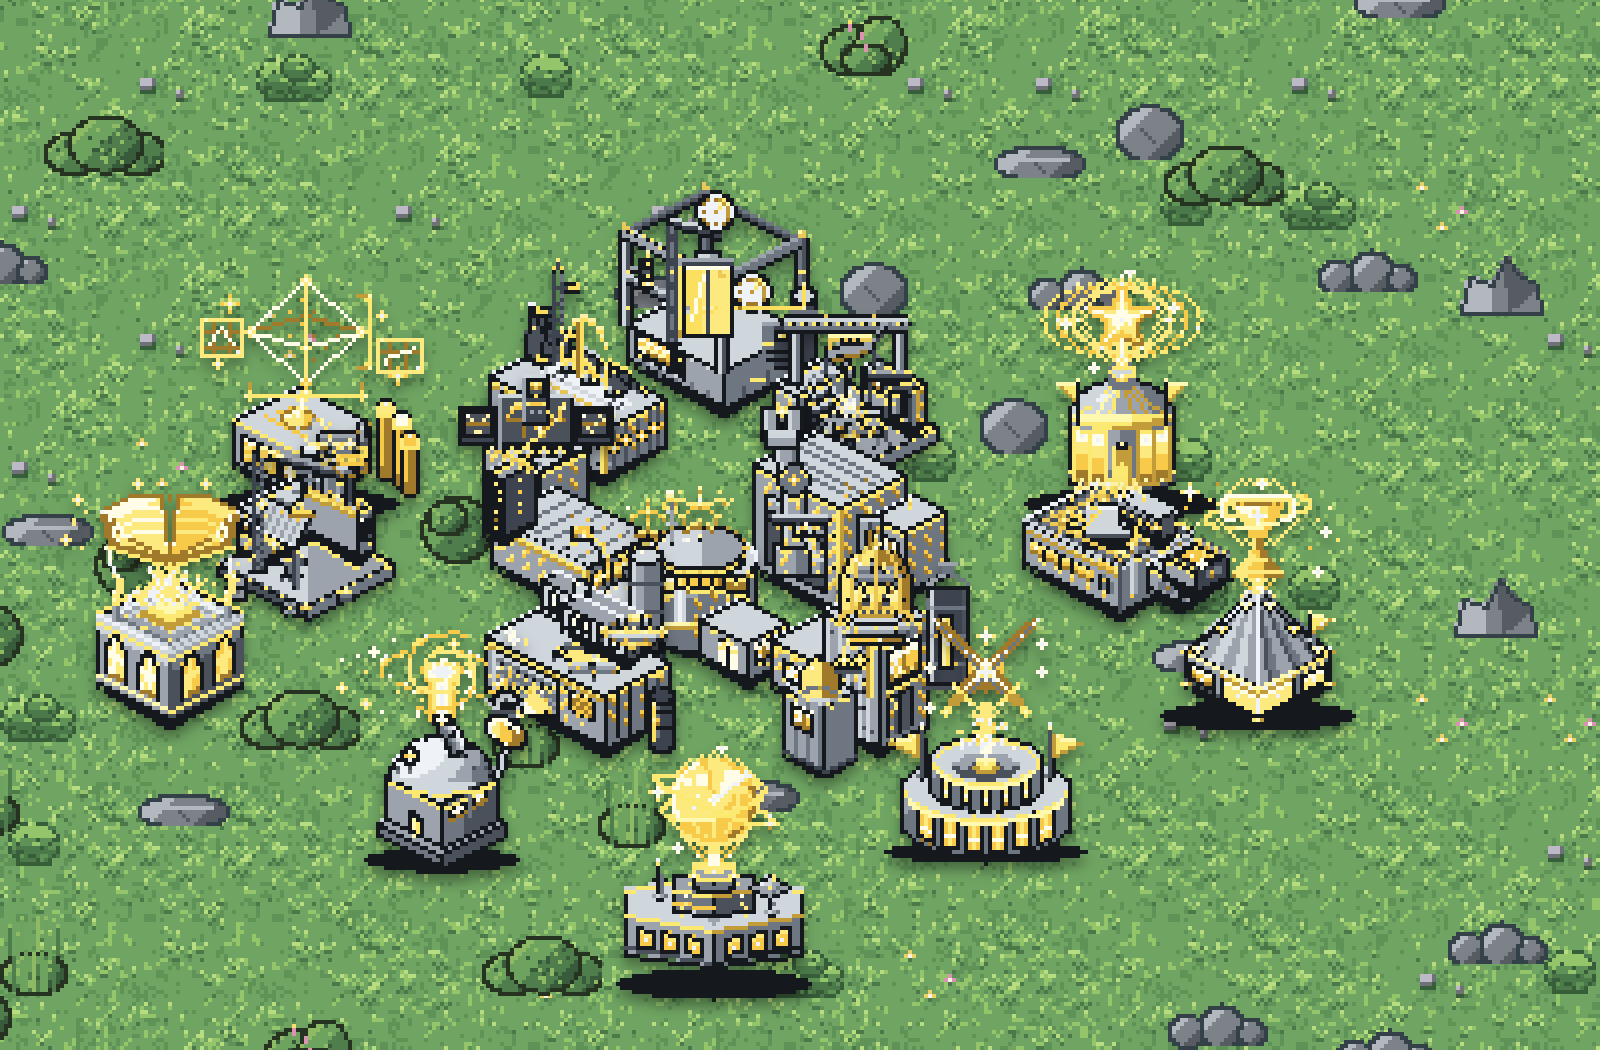
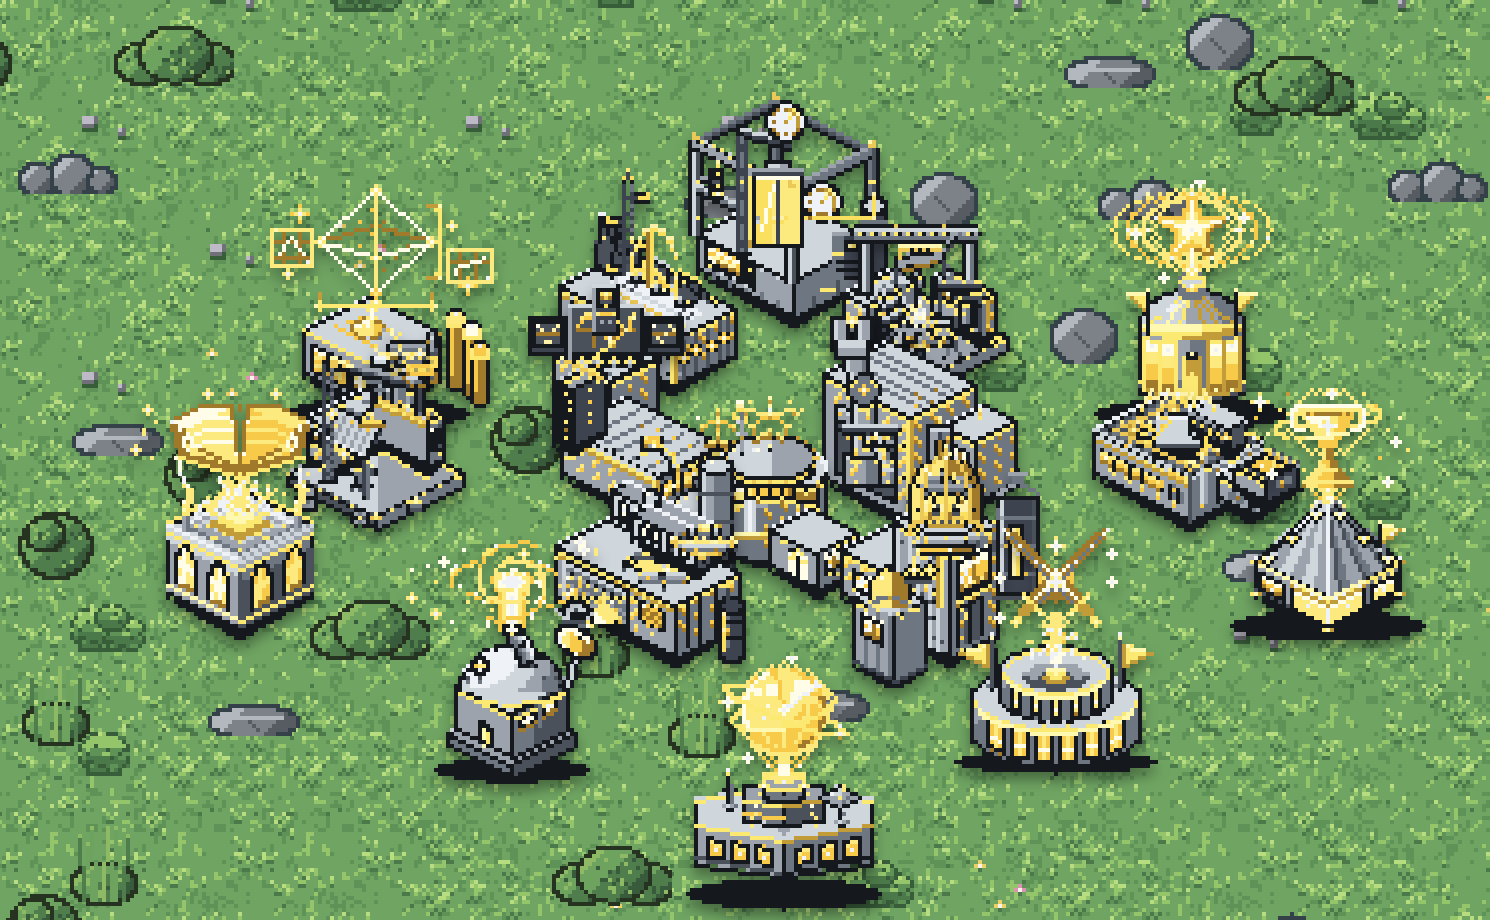
Remove lab carousel, re-crop hero tighter on the maxed-out lab
Dropped the lab-building carousel from the homepage per request --
deleted SpriteCarousel.tsx outright along with its now-dead
.mkt-carousel-* CSS rather than leaving unused code behind.

Re-cropped the hero background tighter around the building cluster
(less surrounding grass, buildings fill more of the frame) and
centered it with object-position: center.

diff --git a/apps/web/app/globals.css b/apps/web/app/globals.css
@@ -3047,38 +3047,6 @@
   animation: mkt-flip-in 0.35s cubic-bezier(0.22, 1, 0.36, 1);
 }
 
-/* 3D Sprite Carousel (game-layer) — "coverflow" style: center item full-size
-   and forward-facing, two on each side progressively smaller and turned
-   inward (CSS perspective + per-item translateX/Z, rotateY, scale; no
-   library). Fills the width of its container — translateX on each item
-   uses %, which resolves against the item's own box (same width as the
-   scene, since items are position:absolute + inset:0). */
-.mkt-carousel-scene {
-  perspective: 1100px;
-  height: clamp(180px, 30vw, 260px);
-}
-.mkt-carousel-track {
-  position: relative;
-  width: 100%;
-  height: 100%;
-  transform-style: preserve-3d;
-  cursor: grab;
-  touch-action: pan-y;
-}
-.mkt-carousel-track:active {
-  cursor: grabbing;
-}
-.mkt-carousel-item {
-  position: absolute;
-  inset: 0;
-  display: flex;
-  flex-direction: column;
-  align-items: center;
-  justify-content: center;
-  backface-visibility: hidden;
-  transition: transform 0.4s cubic-bezier(0.22, 1, 0.36, 1), opacity 0.4s cubic-bezier(0.22, 1, 0.36, 1);
-}
-
 /* Lightbox (Shot zoom) — quick fade, respects reduced-motion below. */
 @keyframes mkt-lightbox-in {
   from { opacity: 0; }
@@ -3146,6 +3114,5 @@
   .mkt-flip-in { animation: none !important; }
   [data-flip] { transform: none !important; transition: none !important; }
   .mkt-accordion-flip { transition: none !important; }
-  .mkt-carousel-item { transition: none !important; }
   .mkt-lightbox { animation: none !important; }
 }

diff --git a/apps/web/app/page.tsx b/apps/web/app/page.tsx
@@ -11,7 +11,6 @@ import { TiltCard } from '@/components/marketing/TiltCard'
 import { MarketingNav, MarketingFooter } from '@/components/marketing/MarketingChrome'
 import { JourneyRail } from '@/components/marketing/JourneyRail'
 import { FlipWords } from '@/components/marketing/FlipWords'
-import { SpriteCarousel } from '@/components/marketing/SpriteCarousel'
 
 /**
  * Public marketing home (`/`) — the product front door. Light theme (paper field,
@@ -402,9 +401,6 @@ export default async function HomePage() {
             </li>
           ))}
         </ul>
-        <Reveal className="mkt-iso-plate mt-12 border border-[#e6e5dd] p-6 md:p-10" style={{ borderRadius: 8 }}>
-          <SpriteCarousel />
-        </Reveal>
       </section>
 
       {/* ── For teachers. Split, image-LEFT (varies orientation). ─────────── */}

diff --git a/apps/web/components/marketing/HeroParallaxBg.tsx b/apps/web/components/marketing/HeroParallaxBg.tsx
@@ -40,7 +40,7 @@ export function HeroParallaxBg({ src }: { src: string }) {
         src={src}
         alt=""
         className="h-full w-full object-cover"
-        style={{ objectPosition: 'center 42%' }}
+        style={{ objectPosition: 'center' }}
       />
       <div
         className="absolute inset-0"

diff --git a/docs/CHANGELOG.md b/docs/CHANGELOG.md
@@ -5,6 +5,21 @@ Format: `## [version] — YYYY-MM-DD` with sections: **Added**, **Changed**, **F
 
 ---
 
+## [0.28.0] — 2026-07-28
+
+### Removed
+
+- **Lab-building carousel** on the homepage "game layer" section, per Isaac's request. Deleted
+  `SpriteCarousel.tsx` outright (unused elsewhere) along with its now-dead `.mkt-carousel-*`
+  CSS in `globals.css`, rather than leaving dead code behind.
+
+### Changed
+
+- **Hero background re-cropped and re-centered** — the previous crop had the building cluster
+  off to one side with a lot of surrounding grass. Re-cropped `lab-hero-crop-maxed.png` tighter
+  around the cluster (buildings now fill most of the frame) and set `object-position: center` so
+  the crop shows as much of the maxed-out lab and as little grass as possible.
+
 ## [0.27.0] — 2026-07-17
 
 Pass inspired by Isaac's design references (teak.io, saaspo.com's curated gallery,
